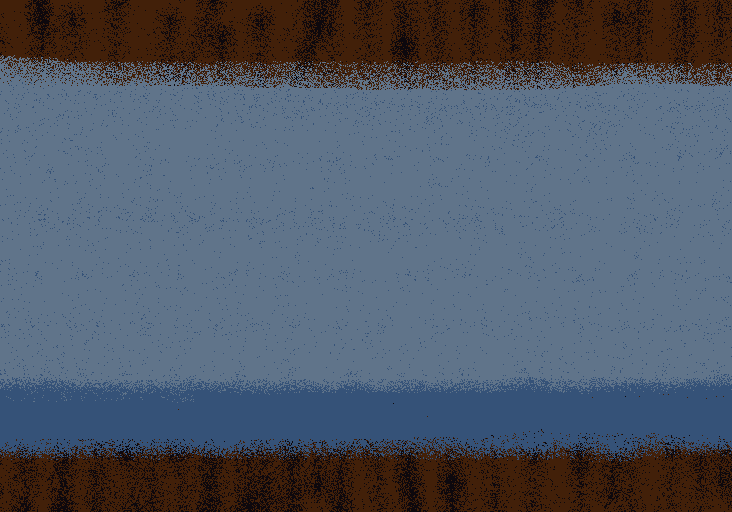
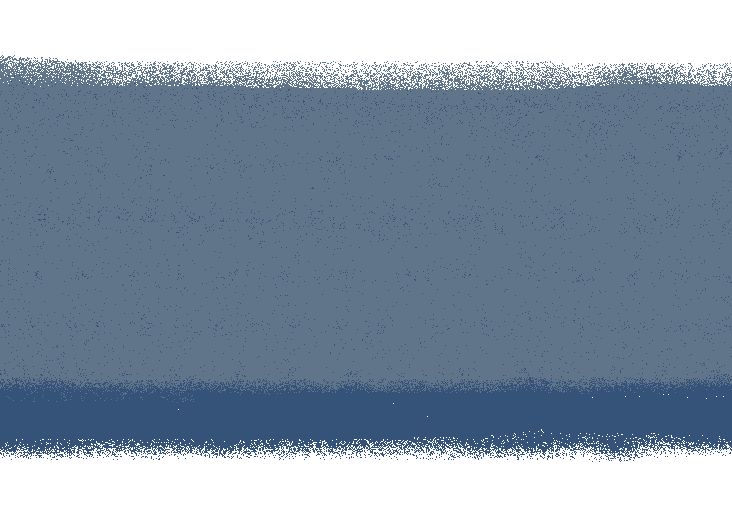
abandon boxed pages

Changed region(s): [[0.0, 0.0, 1.0, 0.1875], [0.0, 0.8438, 1.0, 1.0]]

diff --git a/me.html b/me.html
@@ -8,20 +8,21 @@
     <meta name="viewport" content="width=device-width, initial-scale=1.0">
   </head>
   <body>
-    <div><img class="blinkie" src="blinkies/bin.gif"><img class="blinkie" src="blinkies/china.gif"><img class="blinkie" src="blinkies/uk.gif"><img class="blinkie" src="blinkies/label.gif"></div>
-    <main class="scene" style="background-image: url(me/roof.png); background-size: 100%">
-    	<img src="me/vitruvian.png" alt="me" class="static" style="left: 21vw; width: 60vw">
-      
-      <p class="label" style="top: -3vw">kinda good at coding - proficient at <a href="https://dotnet.microsoft.com/en-us/languages/csharp">c#</a> and <a href="https://www.rust-lang.org/">rust</a>. mostly codes for <a href="https://github.com/bananaturtlesandwich">modding projects</a> but also thinking about making their own game</p>
-      <p class="label" style="top: 31vw">black belt at taekwondo and shortly did kung-fu, tennis, table tennis and swimming when younger</p>
-      <p class="label" style="top: -3vw; left: 77.5vw">gets obsessed with things fairly easily (just check their shrines). is weird on their <a href="https://www.tumblr.com/organic-spuds">tumblr</a></p>
-      <p class="label" style="top: 21vw; left: 77.5vw">plays piano, accordion, violin and hulusi (may upload covers)</p>
-      <p class="label" style="top: 39vw; left: 77.5vw">sucker for pretty much any food except  fruit</p>
-      
-      <a href="index.html" class="rotate">
-      	<img src="back.png" alt="back" style="top: 58vw; left: 45vw; width: 15vw">
-        <span class="text" style="top: 64vw; left: 48vw">back</span>
-      </a>
-    </main>
+    <div><img src="blinkies/bin.gif" alt="bin" class="blinkie"><img src="blinkies/china.gif" alt="china" class="blinkie"><img src="blinkies/uk.gif" alt="uk" class="blinkie"><img src="blinkies/label.gif" alt="label" class="blinkie"></div>
+    <img src="me/vitruvian.png" alt="me" class="blinkie" style="position: fixed; left: 25%; width: 50vw">
+    <div style="float: left; width: 25%">
+      <p class="label">kinda good at coding - proficient at <a href="https://dotnet.microsoft.com/en-us/languages/csharp">c#</a> and <a href="https://www.rust-lang.org/">rust</a>. mostly codes for <a href="https://github.com/bananaturtlesandwich">modding projects</a> but also thinking about making their own game</p>
+      <p class="label">black belt at taekwondo and shortly did kung-fu, tennis, table tennis and swimming when younger</p>
+    </div>
+    <div style="float: right; width: 25%">
+      <p class="label">gets obsessed with things fairly easily (just check their shrines). is weird on their <a href="https://www.tumblr.com/organic-spuds">tumblr</a></p>
+      <p class="label">plays piano, accordion, violin and hulusi (may upload covers)</p>
+      <p class="label">sucker for pretty much any food except  fruit</p>
+    </div>
+    
+    <a href="index.html" class="rotate">
+    	<img src="back.png" alt="back" style="top: 58vw; left: 45vw; width: 15vw">
+      <span class="text" style="top: 64vw; left: 48vw">back</span>
+    </a>
   </body>
 </html>

diff --git a/style.css b/style.css
@@ -8,11 +8,15 @@
   src: url("grape soda.ttf") format("truetype");
 }
 
+* {
+  box-sizing: border-box;
+}
+
 body {
   background-image: url("galaxy.png");
   background-size: 50vw;
   font-family: wearepotatoes;
-  font-size: 5vw;
+  font-size: 3vw;
   color: white;
   text-align: center;
   /*nice and crunchy*/
@@ -34,7 +38,7 @@ a:active {
   color: hotpink;
 }
 
-.file, .label, img {
+.file, img {
   position: absolute;
 }
 
@@ -45,10 +49,7 @@ a:active {
 .scene {
   width: 100%;
   height: 70vw;
-  border: white 4px groove;
-  transform: scale(0.70) translateY(-20%);
-  overflow-x: hidden;
-  overflow-y: hidden;
+  transform: scale(0.75) translateY(-20%);
 }
 
 @media screen and (max-width: 1280px) {
@@ -70,8 +71,6 @@ a:active {
 .label {
   font-size: 3vw;
   font-family: grape soda;
-  border: white 4px dashed;
-  width: 19vw;
 }
 
 /*thank you so much ribose for this setup*/
@@ -90,6 +89,7 @@ a:active {
 }
 
 .text {
+  font-size: 5vw;
   opacity: 0;
   position: absolute;
   color: white;

diff --git a/shrines.html b/shrines.html
@@ -7,14 +7,12 @@
     <meta charset="UTF-8">
     <meta name="viewport" content="width=device-width, initial-scale=1.0">
   </head>
-  <body>
+  <body style="background-image: url(shrines/shrine.png); background-size: 100%">
     <img src="progress.gif" style="position: static; width: 50vw">
-    <main class="scene" style="background-image: url(shrines/shrine.png); background-size: 100%">
-      <a href="index.html" class="rotate">
-      	<img src="back.png" alt="back" style="top: 58vw; left: 45vw; width: 15vw">
-        <span class="text" style="top: 64vw; left: 48vw">back</span>
-      </a>
-    </main>
+    <a href="index.html" class="rotate">
+    	<img src="back.png" alt="back" style="top: 58vw; left: 45vw; width: 15vw">
+      <span class="text" style="top: 64vw; left: 48vw">back</span>
+    </a>
   </body>
 </html>
 

diff --git a/blog.html b/blog.html
@@ -7,14 +7,12 @@
     <meta charset="UTF-8">
     <meta name="viewport" content="width=device-width, initial-scale=1.0">
   </head>
-  <body>
+  <body style="background-image: url(blog/thoughts.png); background-size: 100%">
     <img src="progress.gif" style="position: static; width: 50vw">
-    <main class="scene" style="background-image: url(blog/thoughts.png); background-size: 100%">
       <a href="index.html" class="rotate">
       	<img src="back.png" alt="back" style="top: 58vw; left: 45vw; width: 15vw">
         <span class="text" style="top: 64vw; left: 48vw">back</span>
       </a>
-    </main>
   </body>
 </html>
 

diff --git a/desk.html b/desk.html
@@ -7,8 +7,9 @@
     <meta charset="UTF-8">
     <meta name="viewport" content="width=device-width, initial-scale=1.0">
   </head>
-  <body>
-    <main class="scene" style="background-image: url(desk/desk.png); background-size: 100%">
+  <body style="background-image: url(desk/wall.png); background-size: 100%">
+  	<img src="desk/desk.png" alt="desk" class="static" style="left: 0vw; width: 100%">
+    <main class="scene">
     	<img src="desk/kiwi.png" alt="kiwi" class="static" style="left: 73vw; width: 25vw">
       
       <a href="coding.html" class="rotate">

diff --git a/index.html b/index.html
@@ -9,6 +9,7 @@
   </head>
   <body>
     <img src="progress.gif" style="position: static; width: 50vw">
+    <p>todo: overhaul about me, add sitemap, add nearby cities page, get added to the <a href="https://soapfriendo.neocities.org/rwring">cycle ring</a>, get cracking on the shit ton of shrines i have planned</p>
     <main class="scene">
     	<img src="shack/walls.png" alt="walls" class="static" style="left: 10vw; width: 75vw">
     	<img src="shack/hay.png" alt="hay" class="static" style="top: 44vw; left: 17vw; width: 60vw">
